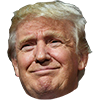
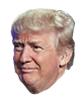
add new trump head photo. increase spacing above/below national bar on mobile

diff --git a/views/includes/nationalbar.html b/views/includes/nationalbar.html
@@ -18,10 +18,6 @@
     margin-bottom: -16px;
   }
 
-  #national-bar--head-icons-rep {
-    width: 8%;
-  }
-
   .national-bar--head-icons img {
     width: 100%;
   }
@@ -184,6 +180,12 @@
 
   #national-bar-legend-item--rep-leaning .national-bar-legend-block {
     background: #f4a098;
+  }
+
+  @media (max-width: 580px) {
+    #national-bar-wrapper {
+      margin: 5em 0;
+    }
   }
 
   @media (max-width: 480px) {
